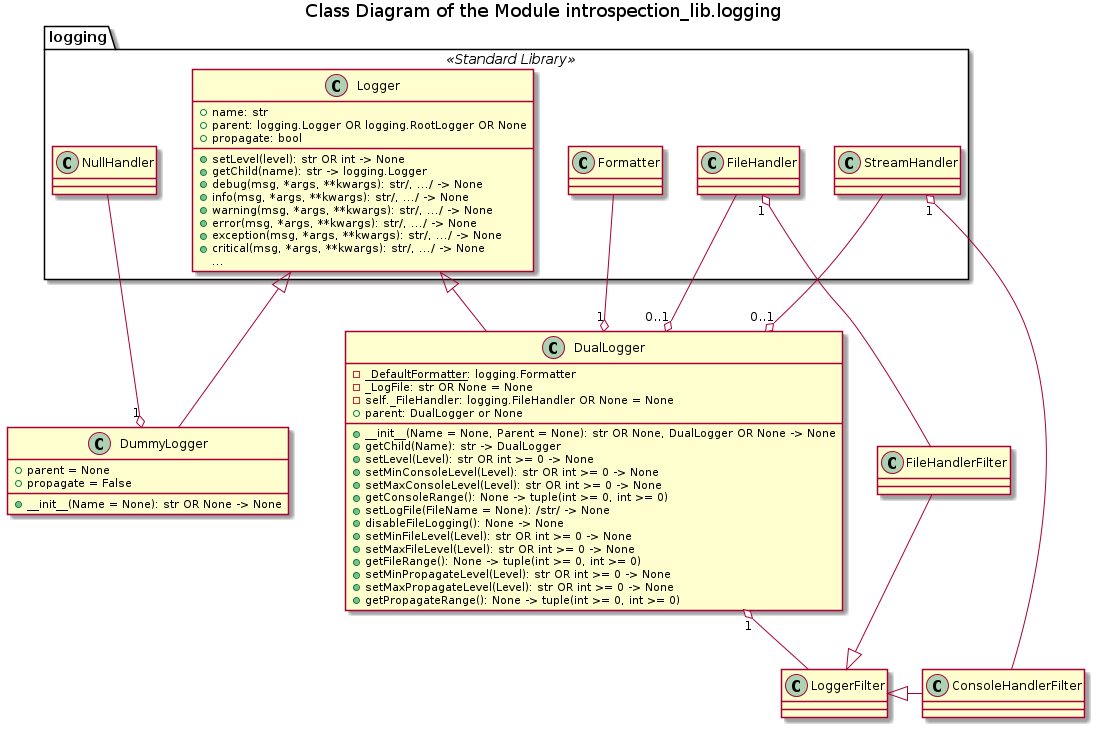
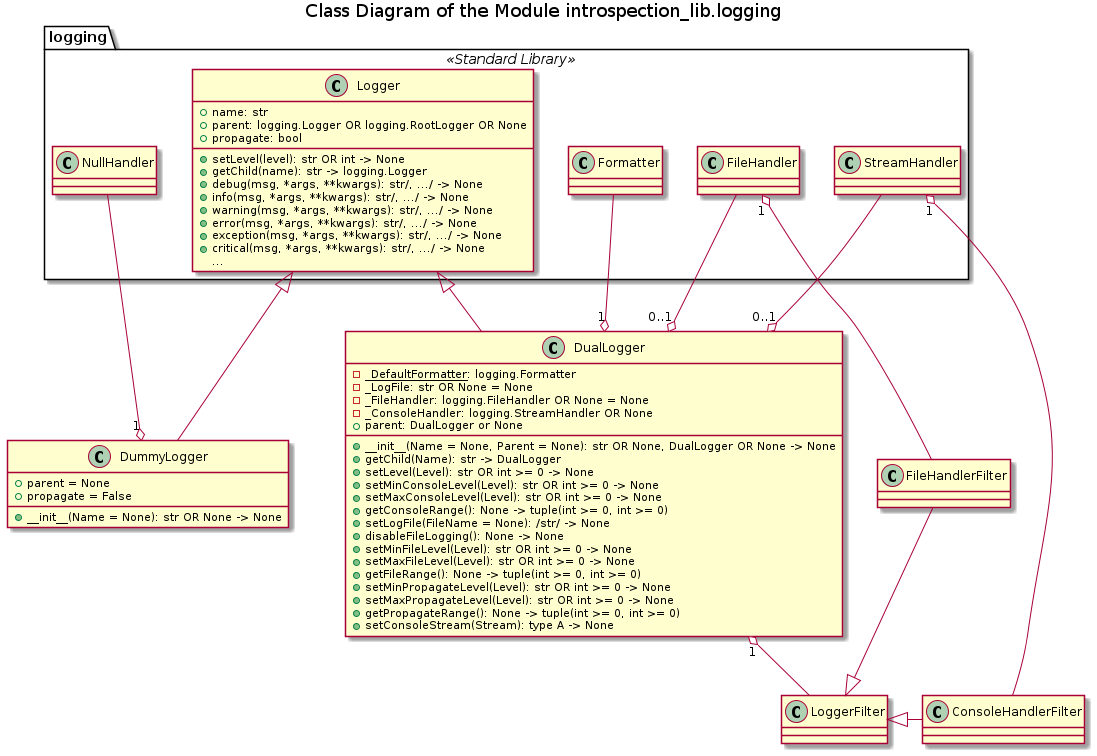
added console logging redirection

diff --git a/logging.py b/logging.py
@@ -14,8 +14,8 @@ Classes:
 
 """
 
-__version__ = "1.0.0.1"
-__date__ = "01-12-2020"
+__version__ = "1.0.1.0"
+__date__ = "16-12-2020"
 __status__ = "Production"
 
 #imports
@@ -356,8 +356,10 @@ class DualLogger(base_logging.Logger):
             str OR int >= 0 -> None
         getPropagateRange():
             None -> tuple(int >= 0, int >= 0)
+        setConsoleStream(Stream):
+            type A -> None
 
-    Version 1.0.0.1
+    Version 1.1.0.0
     """
 
     #private class attributes
@@ -411,14 +413,15 @@ class DualLogger(base_logging.Logger):
         if ((self.parent is None) or
                             isinstance(self.parent, base_logging.RootLogger)):
             self.parent = None
-            objTemp = base_logging.StreamHandler()
-            objTemp.setLevel(ALL)
-            objTemp.addFilter(ConsoleHandlerFilter(self))
-            objTemp.setFormatter(self._DefaultFormatter)
-            self.addHandler(objTemp)
+            self._ConsoleHandler = base_logging.StreamHandler()
+            self._ConsoleHandler.setLevel(ALL)
+            self._ConsoleHandler.addFilter(ConsoleHandlerFilter(self))
+            self._ConsoleHandler.setFormatter(self._DefaultFormatter)
+            self.addHandler(self._ConsoleHandler)
             self.propagate = False
         else:
             self.propagate = True
+            self._ConsoleHandler = None
         self.setLevel('ALL')
         self.addFilter(LoggerFilter(self))
         self.setMinConsoleLevel('ALL')
@@ -701,3 +704,30 @@ class DualLogger(base_logging.Logger):
         Version 1.0.0.0
         """
         return (self._MinPropagateLevel, self._MaxPropagateLevel)
+    
+    def setConsoleStream(self, Stream) -> None:
+        """
+        Redirects the console output into another stream-like object, which
+        must have, at least, write() and flush() methods. Affects all loggers
+        within a single tree, even when called from any (grand-) child, since
+        the console handler is always attached to the root.
+        
+        Signature:
+            type A -> None
+        
+        Args:
+            Stream: type A; any stream-like object
+        
+        Version 1.0.0.0
+        """
+        if self._ConsoleHandler is None:
+            if not (self.parent is None):
+                self.parent.setConsoleStream(Stream)
+        else:
+            self.removeHandler(self._ConsoleHandler)
+            del self._ConsoleHandler
+            self._ConsoleHandler = base_logging.StreamHandler(Stream)
+            self._ConsoleHandler.setLevel(ALL)
+            self._ConsoleHandler.addFilter(ConsoleHandlerFilter(self))
+            self._ConsoleHandler.setFormatter(self._DefaultFormatter)
+            self.addHandler(self._ConsoleHandler)

diff --git a/__init__.py b/__init__.py
@@ -16,7 +16,7 @@ __project__ ='Python introspection framework'
 __version_info__= (0, 3, 0)
 __version_suffix__= '-dev1'
 __version__= ''.join(['.'.join(map(str, __version_info__)), __version_suffix__])
-__date__ = '27-11-2020'
+__date__ = '16-12-2020'
 __status__ = 'Development'
 __author__ = 'Anton Azarov'
 __maintainer__ = 'a.azarov@diagnoptics.com'

diff --git a/Documentation/References/UD003_logging.md b/Documentation/References/UD003_logging.md
@@ -160,6 +160,8 @@ If there is already a file handler, and it is associated with the same file, thi
 
 ![DualLogger.disableFileLogging](../UML/logging/duallogger_disablefilelogging.png)
 
+It is also possible to redirect the console output into another file or stream-like object after instantiation of a **DualLogger** class using method *setConsoleStream*() with a required stream-like target object as its only argument. This method can be called on the 'root' logger or on any child, grand-child, great-grand-child, etc. in the hierarchy. In any case, the method call is recursive, until it reaches the 'root' logger, and, since only the 'root' has an actual console handler, the entire hierarchy will be affected.
+
 ### Implementation Notes
 
 Both classes **DummyLogger** and **DualLogger** sub-class the Standard Library's **logging.Logger** and have all fields and methods of a standard logger, see the Standard Library [logging module](https://docs.python.org/3/library/logging.html) documentation. However, naturally, the function *logging.getLogger*() cannot be used to create them, and some other limitations are applicable, as discussed below.
@@ -173,6 +175,8 @@ Concerning the class **DualLogger**. Instantiate this class to get a 'root' logg
 The filters attached to a logger and its handlers store the reference to this logger via **weakref.proxy** object in order to facilitate the garbage collection concerning the circlar referencing.
 
 The default formater applied to the both console and file handlers is stored in the class private attribute *_DefaultFormatter*, and the default format of the messages is `{asctime} {levelname}@{name} FROM {funcName} IN {filename} (LINE {lineno})\n{message}`, where the date-time format is `%Y-%m-%d %H:%M:%S`.
+
+The standard library **logging.StreamHandler** class has a method *setStream*() only from the Python version 3.7. For compatibility with the older versions of Python (e.g. 3.6), the method *DualLogger.setConsoleStream*() actually replaces the exisiting console handler of the root logger of the hierarchy with a new instance of **StreamHandler** instantiated with the passed stream object as its argument.
 
 ## API Reference
 
@@ -531,3 +535,17 @@ None -> tuple(int >= 0, int >= 0)
 *Description*:
 
 Returns the current min and max severity levels of a message to be propagated to a parent's file handler as a 2-tuple of non-negative integers.
+
+**setConsoleStream**(Stream)
+
+*Signature*:
+
+type A -> None
+
+*Args*:
+
+* *Stream*: type A; any stream-like object with, at least, two methods available *write*() and *flush*()
+
+*Description*:
+
+Redirects the console output into another stream-like object, which must have, at least, write() and flush() methods. Affects all loggers within a single tree, even when called from any (grand-) child, since the console handler is always attached to the root.
